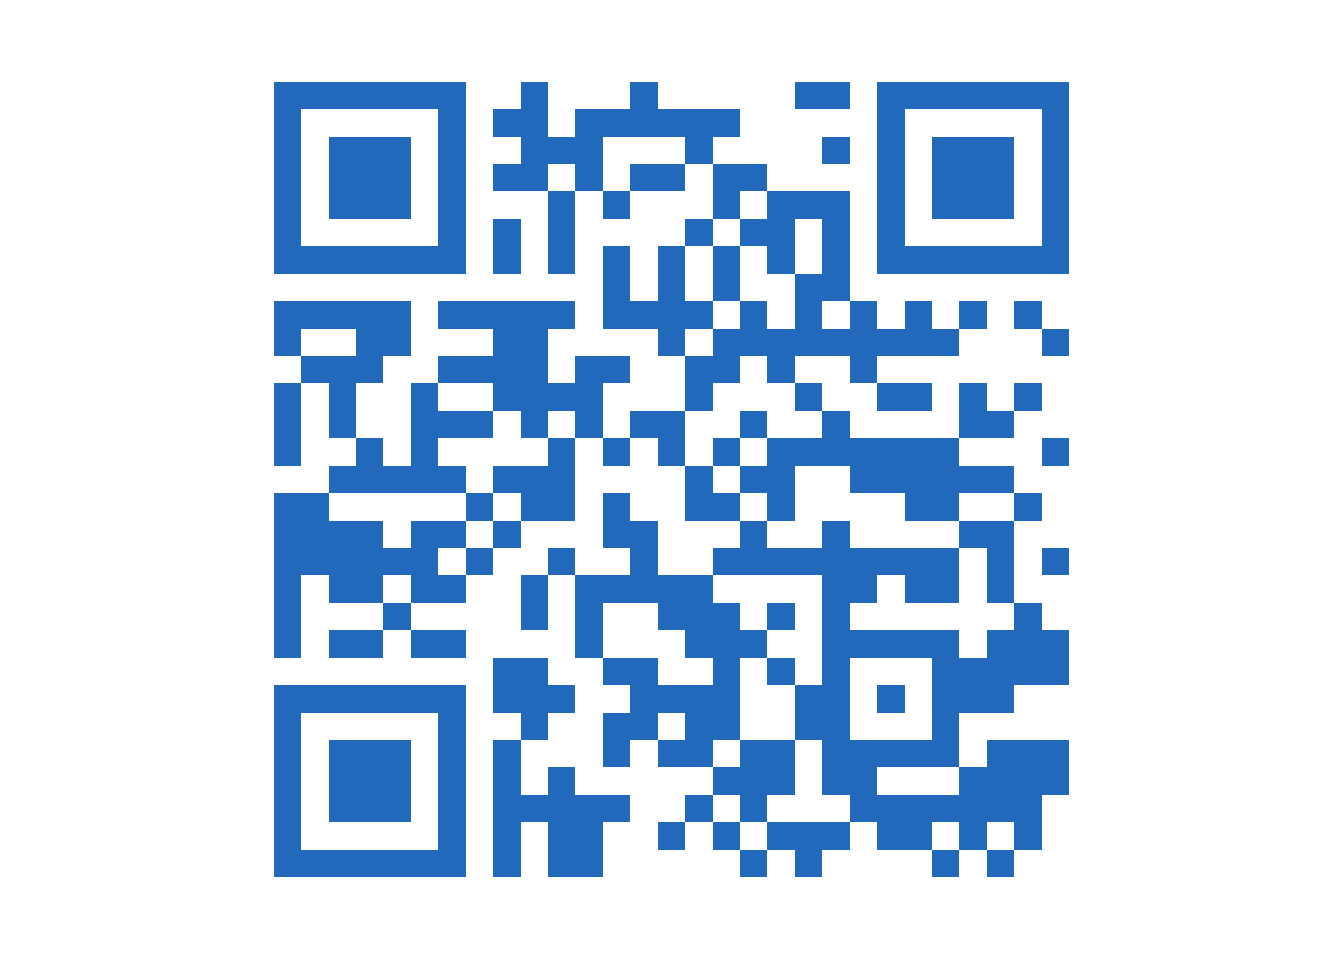
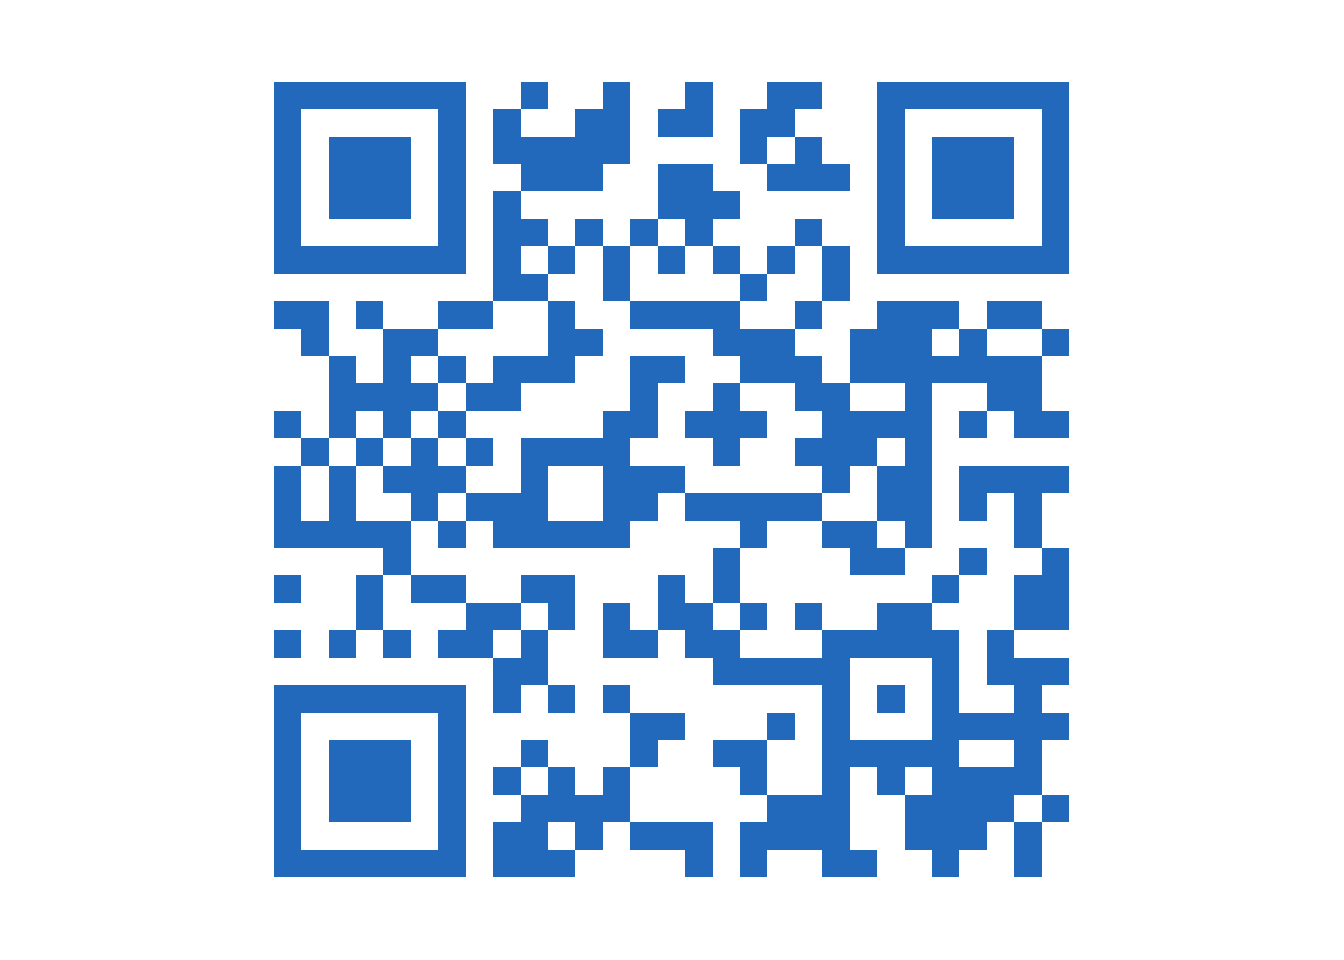
2025

Changed region(s): [[0.1875, 0.0625, 0.8125, 0.9375]]

diff --git a/_site/index.html b/_site/index.html
@@ -154,7 +154,7 @@ window.Quarto = {
 <span class="menu-text">Acerca de</span></a>
   </li>  
   <li class="nav-item compact">
-    <a class="nav-link" href="https://github.com/equihuam/ciencia-reproducible"> <i class="bi bi-github" role="img">
+    <a class="nav-link" href="https://github.com/equihuam/2025-ciencia-reproducible"> <i class="bi bi-github" role="img">
 </i> 
 <span class="menu-text"></span></a>
   </li>  
@@ -206,7 +206,7 @@ window.Quarto = {
 
 <div class="quarto-listing quarto-listing-container-default" id="listing-listing">
 <div class="list quarto-listing-default">
-<div class="quarto-post image-right" data-index="0" data-categories="taller" data-listing-date-sort="1739512800000" data-listing-file-modified-sort="1739564881332" data-listing-date-modified-sort="NaN" data-listing-reading-time-sort="5" data-listing-word-count-sort="822">
+<div class="quarto-post image-right" data-index="0" data-categories="taller" data-listing-date-sort="1739512800000" data-listing-file-modified-sort="1739565269555" data-listing-date-modified-sort="NaN" data-listing-reading-time-sort="5" data-listing-word-count-sort="822">
 <div class="thumbnail">
 <p><a href="./posts/2025-02-14-taller/index.html" class="no-external"></a></p><a href="./posts/2025-02-14-taller/index.html" class="no-external">
 <p><img loading="lazy" src="./posts/2025-02-14-taller/Poster-r-ciencia.png" class="thumbnail-image"></p>

diff --git a/_site/posts/2025-02-14-taller/index.html b/_site/posts/2025-02-14-taller/index.html
@@ -99,7 +99,7 @@ ul.task-list li input[type="checkbox"] {
 <span class="menu-text">Acerca de</span></a>
   </li>  
   <li class="nav-item compact">
-    <a class="nav-link" href="https://github.com/equihuam/ciencia-reproducible"> <i class="bi bi-github" role="img">
+    <a class="nav-link" href="https://github.com/equihuam/2025-ciencia-reproducible"> <i class="bi bi-github" role="img">
 </i> 
 <span class="menu-text"></span></a>
   </li>  
@@ -663,7 +663,7 @@ window.document.addEventListener("DOMContentLoaded", function (event) {
 });
 </script>
 </div> <!-- /content -->
-<script>var lightboxQuarto = GLightbox({"descPosition":"bottom","selector":".lightbox","loop":false,"closeEffect":"zoom","openEffect":"zoom"});
+<script>var lightboxQuarto = GLightbox({"selector":".lightbox","descPosition":"bottom","closeEffect":"zoom","openEffect":"zoom","loop":false});
 (function() {
   let previousOnload = window.onload;
   window.onload = () => {
